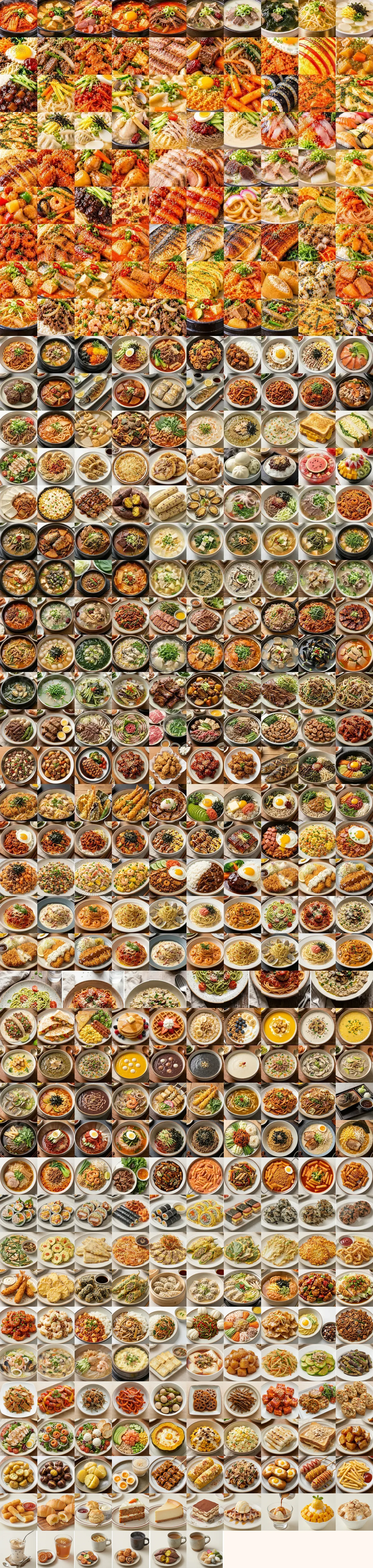
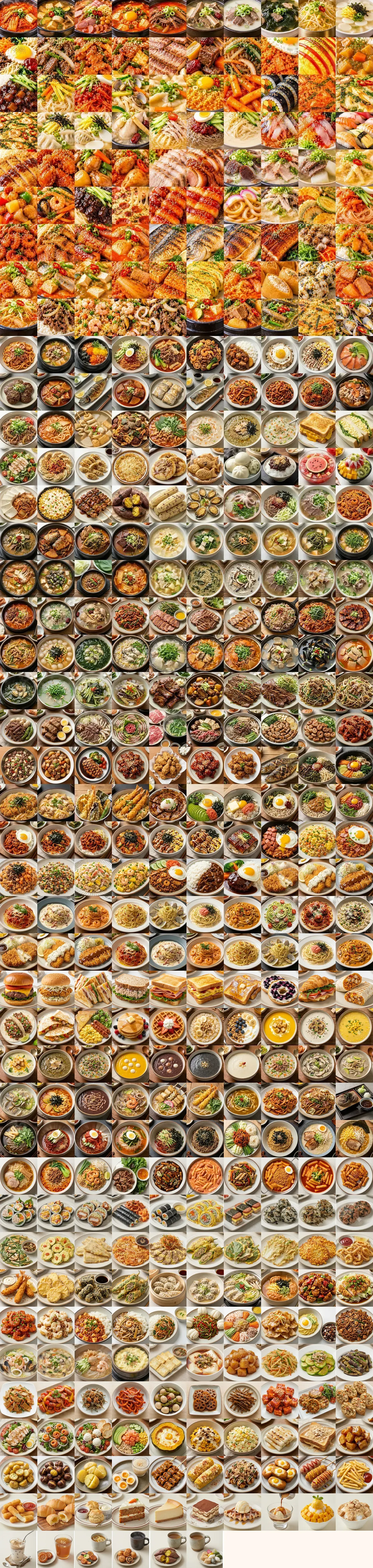
Add files via upload

Changed region(s): [[0.0, 0.5931, 1.0, 0.6556]]

diff --git a/index.html b/index.html
@@ -789,7 +789,7 @@ function renderIngredientToppings(dish, cx, cy) {
 // ================= 3. 요리별 디테일 벡터(SVG) 일러스트 생성기 =================
 // ================= 2-1. 실제 사진(416종 전체 통합 스프라이트) 연결 설정 =================
 // 깃허브에 'food_416.webp' 파일을 index.html과 같은 폴더에 올리면 416개 전체 메뉴에 실제 사진이 표시됩니다.
-const SPRITE_FILE = 'food_416.webp';
+const SPRITE_FILE = 'food_416.webp?v=2';
 const SPRITE_MAP = {"김치찌개": [0, 0], "된장찌개": [1, 0], "부대찌개": [2, 0], "순두부찌개": [3, 0], "육개장": [4, 0], "갈비탕": [5, 0], "설렁탕": [6, 0], "미역국": [7, 0], "콩나물국밥": [8, 0], "떡국": [9, 0], "비빔밥": [0, 1], "불고기": [1, 1], "제육볶음": [2, 1], "닭갈비": [3, 1], "삼겹살구이": [4, 1], "갈비찜": [5, 1], "잡채": [6, 1], "김치볶음밥": [7, 1], "오므라이스": [8, 1], "카레라이스": [9, 1], "짜장밥": [0, 2], "잔치국수": [1, 2], "비빔국수": [2, 2], "칼국수": [3, 2], "수제비": [4, 2], "라면": [5, 2], "떡볶이": [6, 2], "김밥": [7, 2], "김치전": [8, 2], "파전": [9, 2], "해물파전": [0, 3], "만두국": [1, 3], "떡만둣국": [2, 3], "삼계탕": [3, 3], "초계국수": [4, 3], "냉면": [5, 3], "콩국수": [6, 3], "물회": [7, 3], "회덮밥": [8, 3], "초밥": [9, 3], "돈가스": [0, 4], "치킨": [1, 4], "찜닭": [2, 4], "닭볶음탕": [3, 4], "보쌈": [4, 4], "족발": [5, 4], "순대국": [6, 4], "돼지국밥": [7, 4], "소고기무국": [8, 4], "북엇국": [9, 4], "탕수육": [0, 5], "짬뽕": [1, 5], "짜장면": [2, 5], "불고기피자": [3, 5], "떡꼬치": [4, 5], "소떡소떡": [5, 5], "유부우동": [6, 5], "닭칼국수": [7, 5], "모둠전": [8, 5], "김치말이국수": [9, 5], "쭈꾸미볶음": [0, 6], "주꾸미삼겹살": [1, 6], "코다리조림": [2, 6], "꽁치김치찌개": [3, 6], "가자미구이": [4, 6], "조기구이": [5, 6], "임연수구이": [6, 6], "장어구이": [7, 6], "꼬막비빔밥": [8, 6], "멍게비빔밥": [9, 6], "알탕": [0, 7], "동태찌개": [1, 7], "청국장찌개": [2, 7], "김치찜": [3, 7], "두부조림": [4, 7], "계란말이": [5, 7], "김치찌개라면": [6, 7], "유부초밥": [7, 7], "주먹밥": [8, 7], "참치김치찌개": [9, 7], "김치콩나물국": [0, 8], "소불고기덮밥": [1, 8], "새우볶음밥": [2, 8], "해물볶음밥": [3, 8], "버섯불고기": [4, 8], "고추장찌개": [5, 8], "감자탕": [6, 8], "추어탕": [7, 8], "부침개": [8, 8], "바지락술찜": [9, 8], "김치볶음우동": [0, 9], "차돌된장찌개": [1, 9], "알밥": [2, 9], "쫄면": [3, 9], "마라탕": [4, 9], "마라샹궈": [5, 9], "찜닭덮밥": [6, 9], "간장계란밥": [7, 9], "참치마요덮밥": [8, 9], "연어덮밥": [9, 9], "떡갈비": [0, 10], "갈치조림": [1, 10], "고등어구이": [2, 10], "고등어조림": [3, 10], "갈치구이": [4, 10], "삼치구이": [5, 10], "오징어볶음": [6, 10], "낙지볶음": [7, 10], "아구찜": [8, 10], "해물탕": [9, 10], "규동": [0, 11], "김치우동": [1, 11], "어묵탕": [2, 11], "순대볶음": [3, 11], "곱창전골": [4, 11], "닭죽": [5, 11], "전복죽": [6, 11], "야채죽": [7, 11], "토스트": [8, 11], "에그샌드위치": [9, 11], "샐러드": [0, 12], "비빔만두": [1, 12], "군만두": [2, 12], "감자전": [3, 12], "호떡": [4, 12], "붕어빵": [5, 12], "호빵": [6, 12], "팥빙수": [7, 12], "수박화채": [8, 12], "과일빙수": [9, 12], "두부김치": [0, 13], "콘치즈": [1, 13], "닭꼬치": [2, 13], "군고구마": [3, 13], "찐옥수수": [4, 13], "전복구이": [5, 13], "연포탕": [6, 13], "막국수": [7, 13], "쌀국수": [8, 13], "볶음짬뽕": [9, 13], "소고기시래기해장국": [0, 14], "고등어시래기조림": [1, 14], "뼈해장국": [2, 14], "선지해장국": [3, 14], "황태해장국": [4, 14], "시금치된장국": [5, 14], "아욱된장국": [6, 14], "배추된장국": [7, 14], "냉이된장국": [8, 14], "달래된장찌개": [9, 14], "꽃게된장찌개": [0, 15], "우렁된장찌개": [1, 15], "강된장쌈밥": [2, 15], "어묵김치국": [3, 15], "감자수제비국": [4, 15], "들깨미역국": [5, 15], "들깨버섯탕": [6, 15], "곰탕": [7, 15], "도가니탕": [8, 15], "꼬리곰탕": [9, 15], "닭개장": [0, 16], "닭곰탕": [1, 16], "오리백숙": [2, 16], "오리주물럭": [3, 16], "오리훈제구이": [4, 16], "목살구이": [5, 16], "항정살구이": [6, 16], "대패삼겹숙주볶음": [7, 16], "콩불(콩나물불고기)": [8, 16], "고추장삼겹살": [9, 16], "내장탕": [0, 17], "감자옹심이": [1, 17], "매생이굴국": [2, 17], "굴국밥": [3, 17], "대구탕": [4, 17], "생태찌개": [5, 17], "꽃게탕": [6, 17], "조개탕": [7, 17], "홍합탕": [8, 17], "오징어무국": [9, 17], "바지락미역국": [0, 18], "재첩국": [1, 18], "오이냉국": [2, 18], "가지냉국": [3, 18], "돼지갈비구이": [4, 18], "돼지갈비찜": [5, 18], "LA갈비구이": [6, 18], "소갈비구이": [7, 18], "차돌박이숙주볶음": [8, 18], "우삼겹숙주볶음": [9, 18], "소고기장조림": [0, 19], "돼지고기장조림": [1, 19], "소고기버섯전골": [2, 19], "밀푀유나베": [3, 19], "샤브샤브": [4, 19], "스키야키": [5, 19], "불고기전골": [6, 19], "곱창구이": [7, 19], "막창구이": [8, 19], "닭발볶음": [9, 19], "닭똥집볶음": [0, 20], "간장닭조림": [1, 20], "닭가슴살스테이크": [2, 20], "닭강정": [3, 20], "후라이드치킨": [4, 20], "양념치킨": [5, 20], "간장치킨": [6, 20], "전어구이": [7, 20], "산채비빔밥": [8, 20], "돌솥비빔밥": [9, 20], "돈부리(가츠동)": [0, 21], "오야코동": [1, 21], "텐동": [2, 21], "에비동": [3, 21], "부타동": [4, 21], "아보카도명란비빔밥": [5, 21], "버터간장명란밥": [6, 21], "열무비빔밥": [7, 21], "강된장보리밥": [8, 21], "육회비빔밥": [9, 21], "제육덮밥": [0, 22], "오징어덮밥": [1, 22], "낙지덮밥": [2, 22], "닭갈비덮밥": [3, 22], "스팸마요덮밥": [4, 22], "치킨마요덮밥": [5, 22], "장어덮밥": [6, 22], "스팸김치볶음밥": [7, 22], "계란볶음밥": [8, 22], "베이컨김치볶음밥": [9, 22], "깍두기볶음밥": [0, 23], "소고기야채볶음밥": [1, 23], "게살볶음밥": [2, 23], "파인애플볶음밥": [3, 23], "나시고랭": [4, 23], "하이라이스": [5, 23], "함박스테이크": [6, 23], "치즈돈가스": [7, 23], "생선가스": [8, 23], "치킨가스": [9, 23], "토마토파스타": [0, 24], "크림파스타": [1, 24], "로제파스타": [2, 24], "알리오올리오": [3, 24], "봉골레파스타": [4, 24], "명란크림파스타": [5, 24], "투움바파스타": [6, 24], "바질페스토파스타": [7, 24], "미트볼스파게티": [8, 24], "버섯크림리조또": [9, 24], "해물토마토리조또": [0, 25], "김치리조또": [1, 25], "김치치즈그라탱": [2, 25], "고구마치즈그라탱": [3, 25], "고르곤졸라피자": [4, 25], "페퍼로니피자": [5, 25], "마르게리타피자": [6, 25], "소고기스테이크": [7, 25], "찹스테이크": [8, 25], "감바스알아히요": [9, 25], "수제버거": [0, 26], "치킨버거": [1, 26], "클럽샌드위치": [2, 26], "참치샌드위치": [3, 26], "햄치즈샌드위치": [4, 26], "길거리토스트": [5, 26], "프렌치토스트": [6, 26], "베이글크림치즈": [7, 26], "크로와상샌드위치": [8, 26], "브리또": [9, 26], "타코": [0, 27], "퀘사디아": [1, 27], "에그스크램블브런치": [2, 27], "팬케이크": [3, 27], "와플": [4, 27], "오트밀죽": [5, 27], "그릭요거트볼": [6, 27], "단호박수프": [7, 27], "양송이수프": [8, 27], "옥수수수프": [9, 27], "브로콜리치즈수프": [0, 28], "전복내장죽": [1, 28], "소고기야채죽": [2, 28], "단호박죽": [3, 28], "동지팥죽": [4, 28], "흑임자죽": [5, 28], "잣죽": [6, 28], "참치야채죽": [7, 28], "굴버섯죽": [8, 28], "들깨칼국수": [9, 28], "바지락칼국수": [0, 29], "장칼국수": [1, 29], "팥칼국수": [2, 29], "해물칼국수": [3, 29], "어묵우동": [4, 29], "튀김우동": [5, 29], "카레우동": [6, 29], "야끼우동": [7, 29], "볶음우동": [8, 29], "냉모밀(판모밀)": [9, 29], "온모밀": [0, 30], "비빔냉면": [1, 30], "회냉면": [2, 30], "열무국수": [3, 30], "비빔막국수": [4, 30], "들기름막국수": [5, 30], "골뱅이소면": [6, 30], "간장비빔국수": [7, 30], "일본라멘(돈코츠)": [8, 30], "미소라멘": [9, 30], "소유라멘": [0, 31], "탄탄멘": [1, 31], "팟타이": [2, 31], "분짜": [3, 31], "짜장떡볶이": [4, 31], "로제떡볶이": [5, 31], "궁중떡볶이": [6, 31], "라볶이": [7, 31], "국물떡볶이": [8, 31], "기름떡볶이": [9, 31], "참치김밥": [0, 32], "치즈김밥": [1, 32], "돈가스김밥": [2, 32], "충무김밥": [3, 32], "꼬마김밥": [4, 32], "계란김밥(키토김밥)": [5, 32], "스팸무스비": [6, 32], "참치주먹밥": [7, 32], "멸치주먹밥": [8, 32], "떡갈비주먹밥": [9, 32], "부추전": [0, 33], "애호박전": [1, 33], "동태전": [2, 33], "녹두빈대떡": [3, 33], "육전": [4, 33], "고추전": [5, 33], "깻잎전": [6, 33], "배추전": [7, 33], "옥수수전": [8, 33], "오징어튀김": [9, 33], "새우튀김": [0, 34], "고구마튀김": [1, 34], "김말이튀김": [2, 34], "고추튀김": [3, 34], "찐만두": [4, 34], "물만두": [5, 34], "만두전골": [6, 34], "김치만두국": [7, 34], "깐풍기": [8, 34], "유린기": [9, 34], "칠리새우": [0, 35], "크림새우": [1, 35], "마파두부덮밥": [2, 35], "유산슬덮밥": [3, 35], "잡채밥": [4, 35], "고추잡채": [5, 35], "양장피": [6, 35], "꿔바로우": [7, 35], "간짜장": [8, 35], "쟁반짜장": [9, 35], "백짬뽕": [0, 36], "울면": [1, 36], "중국냉면": [2, 36], "계란찜": [3, 36], "두부부침": [4, 36], "순두부양념장": [5, 36], "감자조림": [6, 36], "감자채볶음": [7, 36], "애호박새우젓볶음": [8, 36], "가지나물볶음": [9, 36], "어묵볶음": [0, 37], "소시지야채볶음": [1, 37], "멸치견과류볶음": [2, 37], "오징어채볶음": [3, 37], "메추리알장조림": [4, 37], "연근조림": [5, 37], "우엉조림": [6, 37], "두부강정": [7, 37], "두부스테이크": [8, 37], "두부유부초밥": [9, 37], "닭가슴살샐러드": [0, 38], "연어샐러드": [1, 38], "리코타치즈샐러드": [2, 38], "포케볼(연어포케)": [3, 38], "단호박에그슬럿": [4, 38], "고구마샐러드": [5, 38], "감자샐러드": [6, 38], "떡구이(꿀찍먹)": [7, 38], "인절미토스트": [8, 38], "고구마맛탕": [9, 38], "감자버터구이": [0, 39], "에어프라이어군밤": [1, 39], "찐감자": [2, 39], "삶은계란과식혜": [3, 39], "어묵꼬치구이": [4, 39], "마약옥수수": [5, 39], "타코야끼": [6, 39], "계란빵": [7, 39], "핫도그": [8, 39], "감자튀김": [9, 39], "치즈스틱": [0, 40], "소금빵": [1, 40], "스콘과딸기잼": [2, 40], "당근케이크": [3, 40], "치즈케이크": [4, 40], "티라미수": [5, 40], "크로플": [6, 40], "아포가토": [7, 40], "망고빙수": [8, 40], "인절미빙수": [9, 40], "미숫가루라떼": [0, 41], "수정과와약과": [1, 41], "유자차와한과": [2, 41], "대추차와호두과자": [3, 41], "생강차와군고구마": [4, 41], "옥수수수염차와떡": [5, 41]};
 
 function renderDishMedia(dish, uid) {
